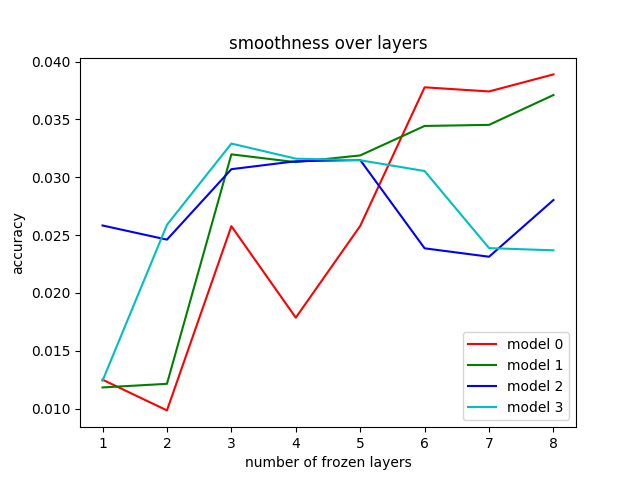
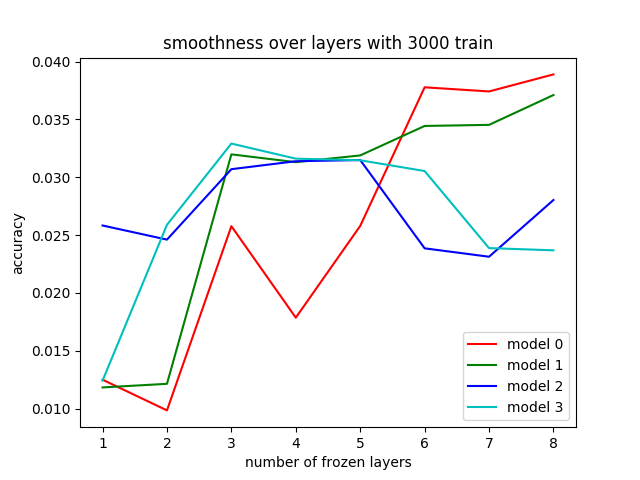
Fixed graphs title

Changed region(s): [[0.25, 0.0625, 0.7812, 0.125]]

diff --git a/transfer/dummy.py b/transfer/dummy.py
@@ -161,7 +161,7 @@ def make_smoothness_graph_for_train(i):
     plt.figure()
     plt.xlabel('number of frozen layers')
     plt.ylabel('accuracy')
-    plt.title(f'smoothness over layers')
+    plt.title(f'smoothness over layers with {i} train')
     for j in range(len(smoothness_list)):
         plt.plot(x, smoothness_list[j], color=colors[j], label=f'model {j}')
     plt.legend(loc='lower right')
@@ -181,7 +181,7 @@ def make_smoothness_graph_for_model(j):
     plt.figure()
     plt.xlabel('number of frozen layers')
     plt.ylabel('smoothness index')
-    plt.title(f'smoothness over layers')
+    plt.title(f'smoothness over layers for model {j}')
     for i in range(len(smoothness_list)):
         plt.plot(x, smoothness_list[i], color=colors[i], label=f'{trains[i]} train')
     plt.legend(loc='lower left')
